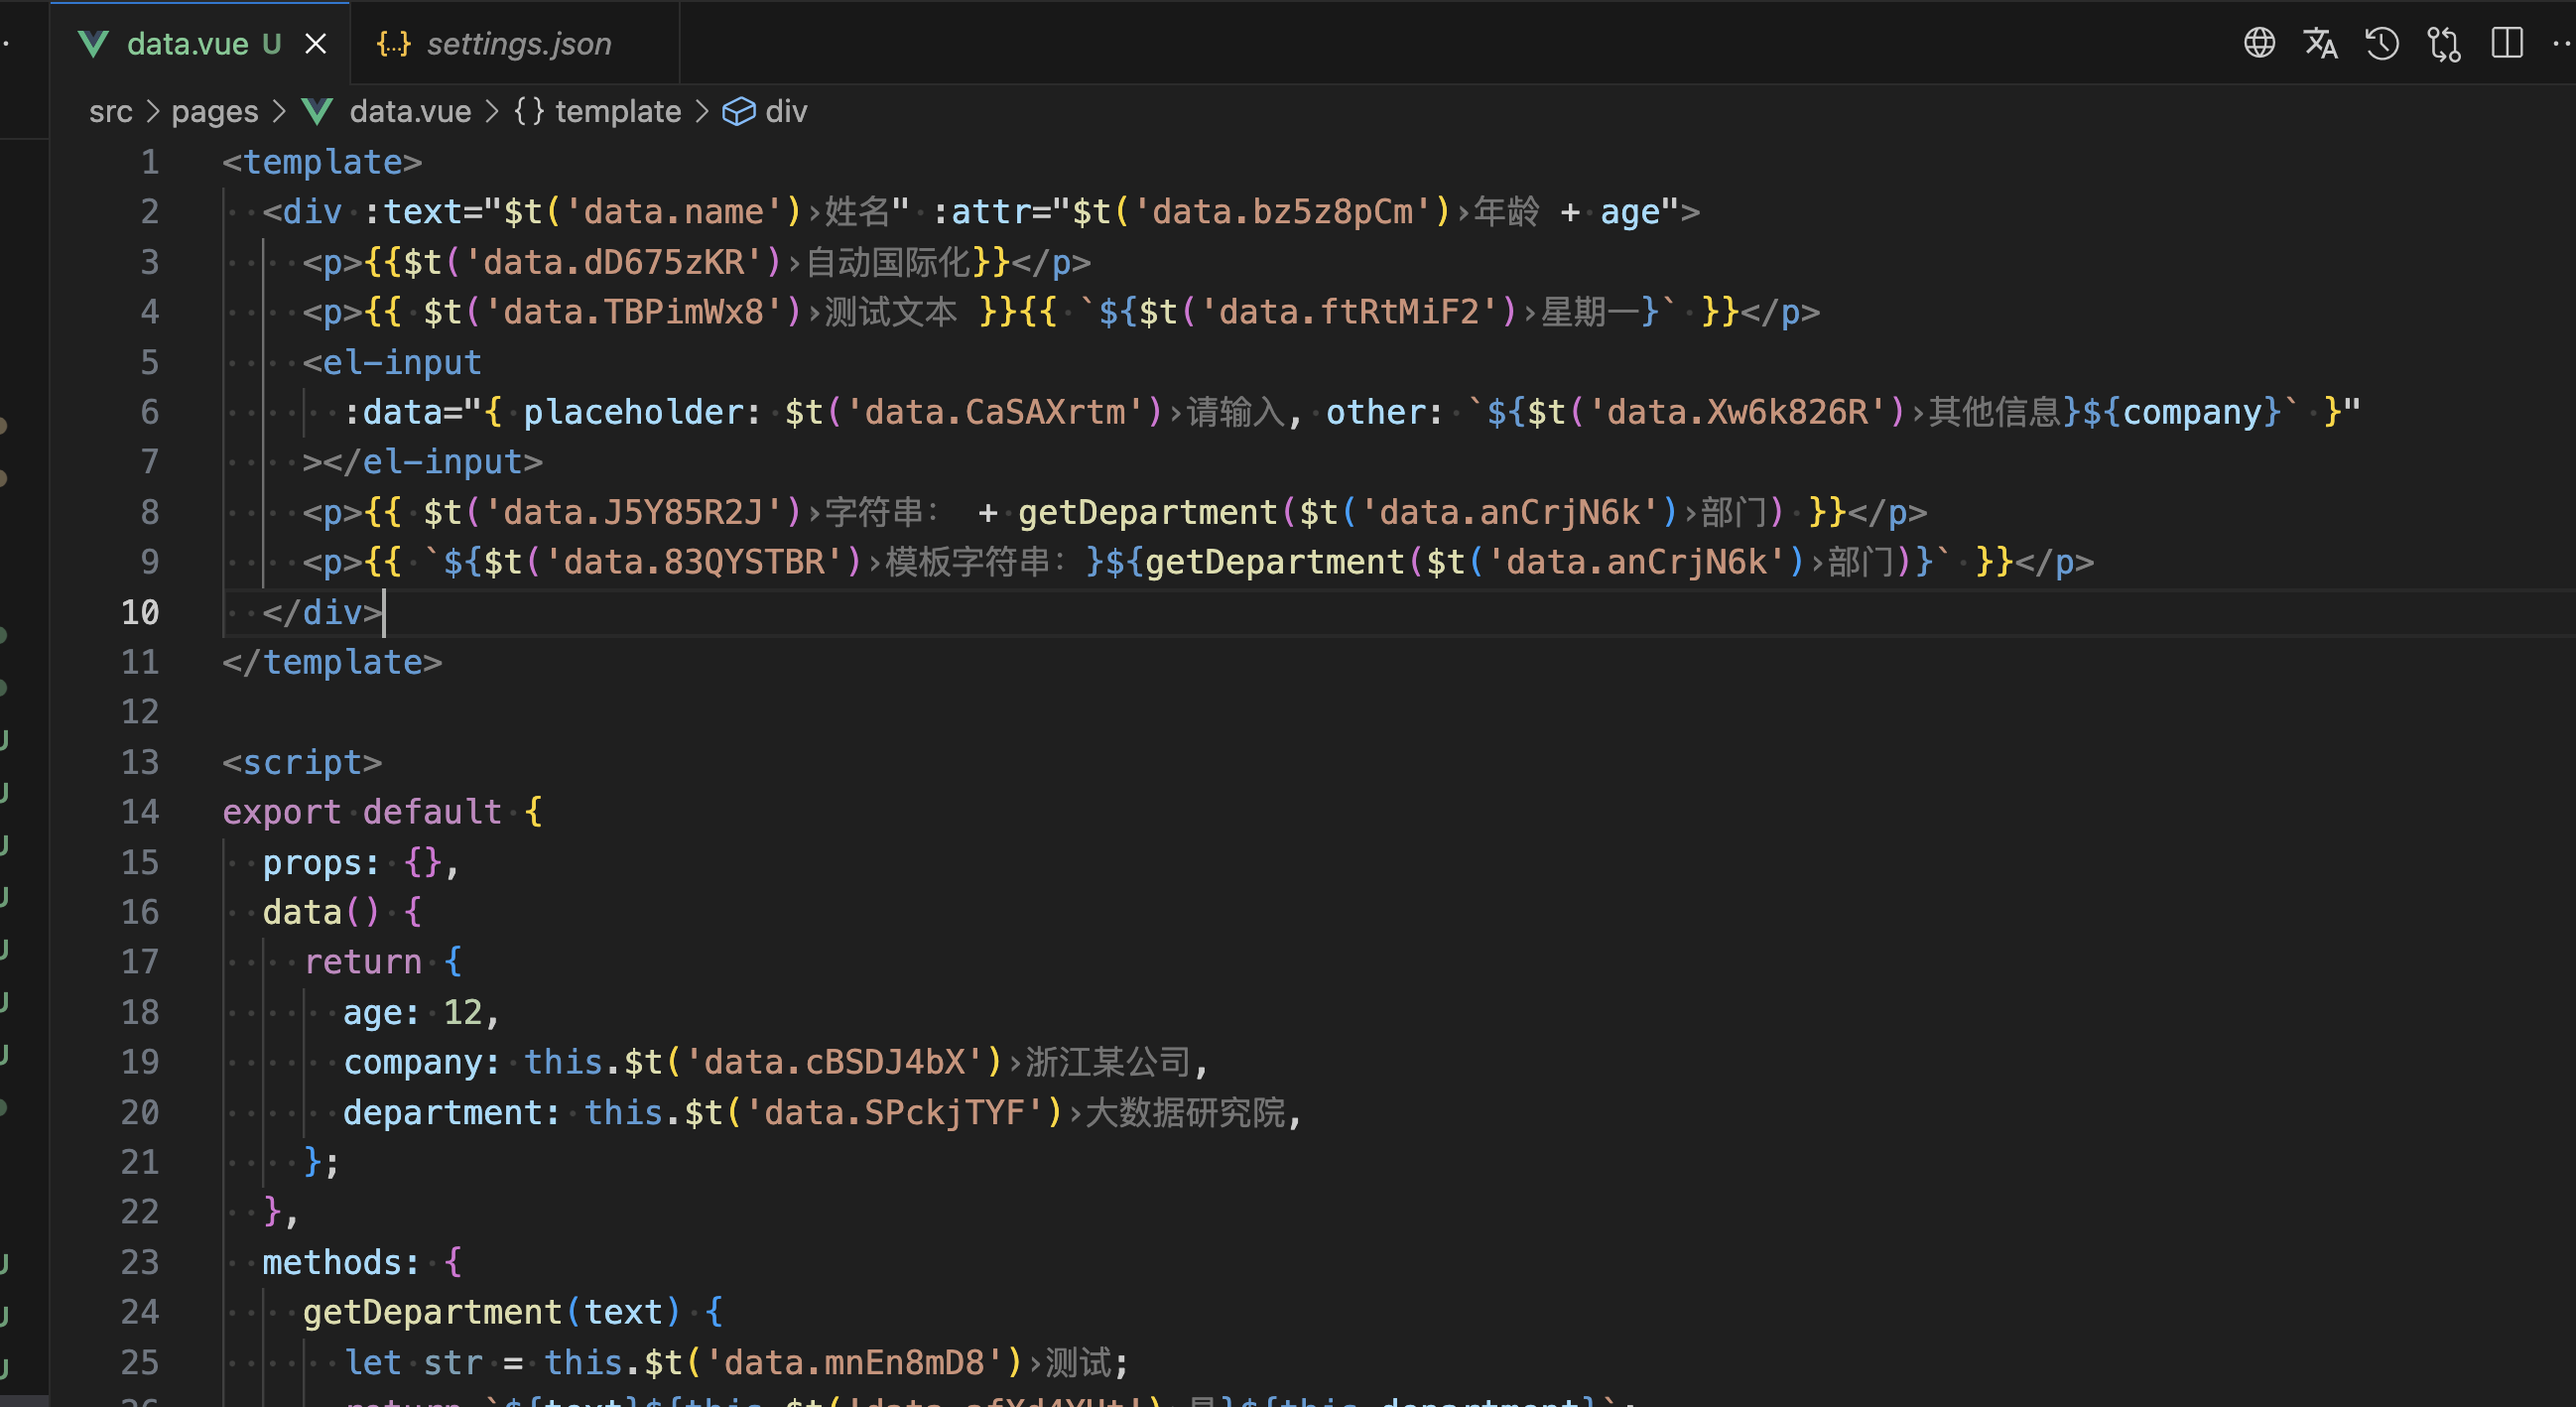
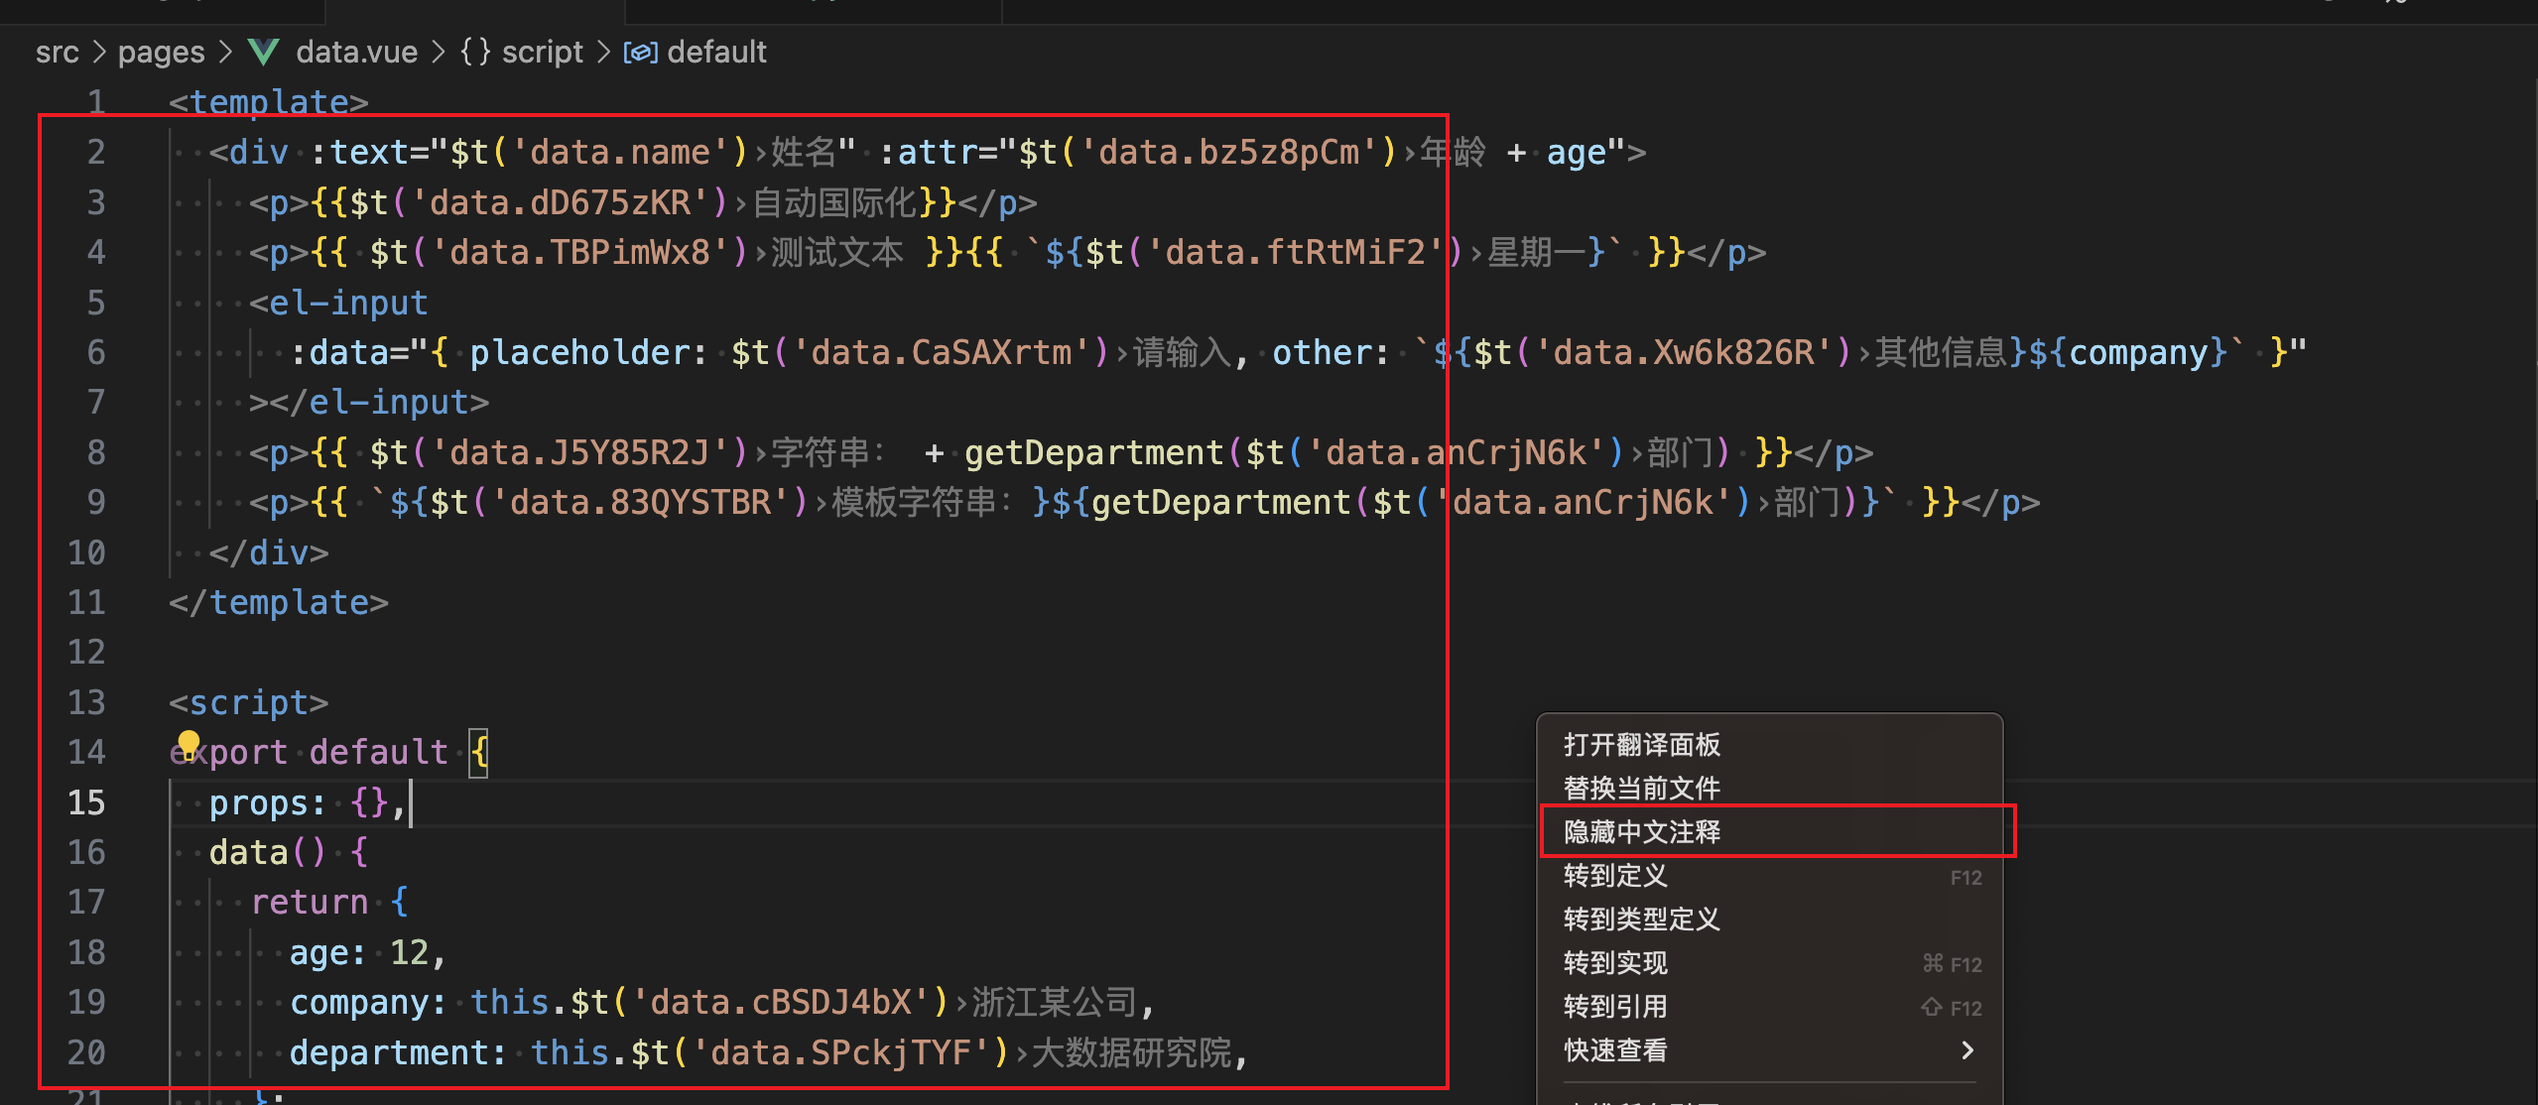
Readme更新

diff --git a/README.md b/README.md
@@ -1,108 +1,38 @@
+## 介绍
+在日常开发过程中需要频繁地配置vue-i18n文本，这极大的影响了开发效率，同时增加了开发者的心智负担。
 
-<center><img src="/assets/icon-vue-i18n-op.png" width="30%"></center>
-
- # <center> Vue I18n OP</center>
-
-<center>
-在开发过程中，频繁的人工翻译和替换中文真的很累有木有！😩
-此刻的你一定也和我有着相同的烦恼，才让我们在这里相遇！👨🏻🤝👨🏼
-这是一款辅助开发者快速编写与替换Vue I18n的工具🚀
-</center>
+这是一款辅助开发者快速编写与替换Vue I18n的工具。
 
 ## 主要能力
 
-* **支持Vue/Vue3（Options API/组合式API）**
-* **支持JavaScript/TypeScript文件的翻译**
-* **支持一键替换当前文件文本**
-* **支持设置文本保存的路径**
-* **支持以js/ts/json类型保存**
-
-## 效果展示
-
-``` vue
-// 替换前
-<template>
-  <div text="姓名" :attr="'年龄' + age">
-    <p>自动国际化</p>
-    <p>{{ "测试文本" }}{{ `星期一` }}</p>
-    <el-input
-      :data="{ placeholder: '请输入', other: `其他信息${company}` }"
-    ></el-input>
-    <p>{{ "字符串：" + getDepartment("部门") }}</p>
-    <p>{{ `模板字符串：${getDepartment("部门")}` }}</p>
-  </div>
-</template>
-
-<script>
-export default {
-  props: {},
-  data() {
-    return {
-      age: 12,
-      company: "浙江某公司",
-      department: "大数据研究院",
-    };
-  },
-  methods: {
-    getDepartment(text) {
-      let str = "测试";
-      return `${text}是${this.department}`;
-    },
-  },
-};
-</script>
-
-```
-``` vue
-// 替换后
-<template>
-  <div :text="$t('data.Qkhn5Pdi')" :attr="$t('data.e3KR2je4') + age">
-    <p>{{$t('data.iifYXS54')}}</p>
-    <p>{{ $t('data.JMQ8dNjn') }}{{ `${$t('data.8t3mAiGi')}` }}</p>
-    <el-input
-      :data="{ placeholder: $t('data.6MRmxCTk'), other: `${$t('data.cSXz37n7')}${company}` }"
-    ></el-input>
-    <p>{{ $t('data.G6fFm5P5') + getDepartment($t('data.5RJktc33')) }}</p>
-    <p>{{ `${$t('data.6Q5TyCMm')}${getDepartment($t('data.5RJktc33'))}` }}</p>
-  </div>
-</template>
-
-<script>
-export default {
-  props: {},
-  data() {
-    return {
-      age: 12,
-      company: this.$t('data.QJ5zSbWH'),
-      department: this.$t('data.YpKNk7y4'),
-    };
-  },
-  methods: {
-    getDepartment(text) {
-      let str = this.$t('data.r4x67Gif');
-      return `${text}${this.$t('data.Aj3SfHED')}${this.department}`;
-    },
-  },
-};
-</script>
-```
-* 翻译面板
-  <img src="/assets/open.png">
-* 配置文件
-<img src="/assets/js.png">
-<img src="/assets/json.png">
+* **支持Vue/Vue3（选项式 API/组合式 API）文件的翻译和替换**
+* **支持JavaScript/TypeScript文件的翻译和替换**
+* **支持自动显示中文注释，同时支持手动开启和关闭**
+* **支持批量导入导出中文模板**
+* **支持批量一键替换所选目录下所有文件**
 
 ## 如何使用
-  **打开翻译面板**
-  可以通过右键打开或右上方 <img src="/assets/icont.png" width="5%"> 按钮打开
+  **✨自动显示中文注解**
+![](assets/showTips.png)
+**注意：前提条件是正确配置i18n目录，如何配置见下方**
+
+  **✨批量导入导出和替换**
+![](assets/mutiple.png)
+
+  **✨翻译文件**
+  可以通过右键打开或右上方 <img src="/assets/icont.png" width="5%"> 按钮打开翻译面板
 ![](assets/open.gif)
-  **设置i18n文件目录**
+
+  **✨设置i18n文件目录**
   首次会自动弹出设置，也可通过 **⌘/Ctrl+Shift+P** 查找 **vue-i18n-op** 设置
 ![](assets/set.gif)
-  **保存翻译**
+
+  **✨保存翻译**
 ![](assets/save.gif)
-  **替换文件**
+
+  **✨替换文件**
 ![](assets/replace.gif)
 
-## 感谢观看与使用
-如果有任何吐槽或问题，欢迎提问和建议，邮箱地址（[297799265@qq.com]()）
+## 感谢
+如果插件给您带来便利,欢迎 star 或赞赏哦~❤
+![](assets/zan.jpg)
